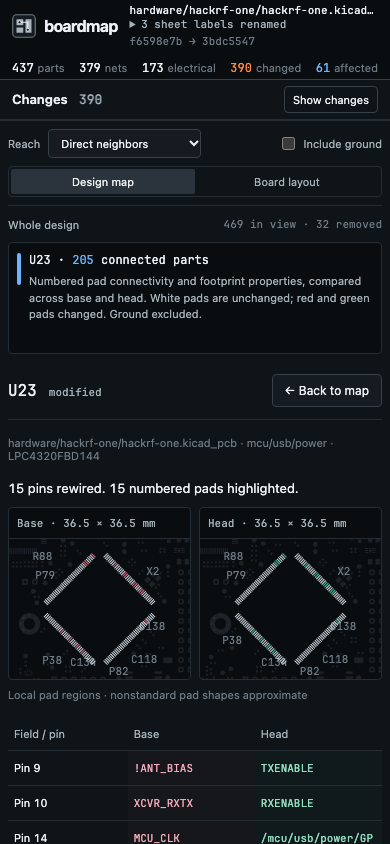
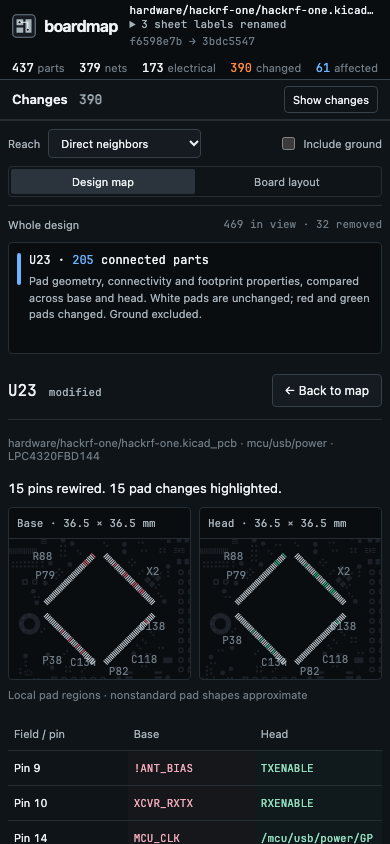
Capture mechanical pad regression and updated part regions

Changed region(s): [[0.0923, 0.3081, 0.9231, 0.3389], [0.3385, 0.5545, 0.7692, 0.5853]]

diff --git a/docs/media/instrument/README.md b/docs/media/instrument/README.md
@@ -44,7 +44,7 @@ npm run test:e2e -- --repo "$CORNE_CACHE" \
 node scripts/capture-demo.mjs "$CORNE_CACHE" --gif
 ```
 
-All 24 existing engine tests and four presentation tests passed. Both synthetic browser cases and both real-board cases passed without browser errors. The browser asserts the actual JetBrains Mono platform font through Chromium CDP, full reference-label bounds, computed sidebar classifications, rewired-pin priority, full neighbor highlights, curve counts, changed-only pad colors, the drill disclosure, keyboard focus retention, inspector reach-control updates, overflow at 720 / 800 / 390px, search and scope filtering, and real touch preview before inspection.
+All 24 existing engine tests and five presentation tests passed. Both synthetic browser cases and both real-board cases passed without browser errors. The browser asserts the actual JetBrains Mono platform font through Chromium CDP, full reference-label bounds, computed sidebar classifications, rewired-pin priority, full neighbor highlights, curve counts, changed-only pad colors, the drill disclosure, keyboard focus retention, inspector reach-control updates, changed mechanical-pad highlighting, long property names, open sheet-rename panels, overflow at 720 / 800 / 390px, search and scope filtering, and real touch preview before inspection.
 
 The synthetic drill assertion opens the geometry disclosure, checks pad 2's 0.8 to 1.2 change, and confirms no unchanged pad 1 geometry row. The ZD1 demo separately verifies Pin 2 changes from GND to VBUS.
 
@@ -55,3 +55,5 @@ The synthetic drill assertion opens the geometry disclosure, checks pad 2's 0.8 
 An offline install of the packed tarball passed checks for the HTML, app, helper, CSS, shared mark and mono font routes. Arbitrary asset paths returned 404. The package has zero runtime dependencies and excludes this media directory. The bundled font's OFL notice is installed with it.
 
 These images contain design data from HackRF and Corne. See their source links and license information in the main README and test fixtures. Nonstandard pad shapes remain approximate; no copper or design-rule analysis is implied.
+
+`mechanical-pad-regression.png` is the synthetic regression inspector. The unnumbered mounting-hole drill changes from 1.0 to 1.4 mm and is colored in both revisions.
